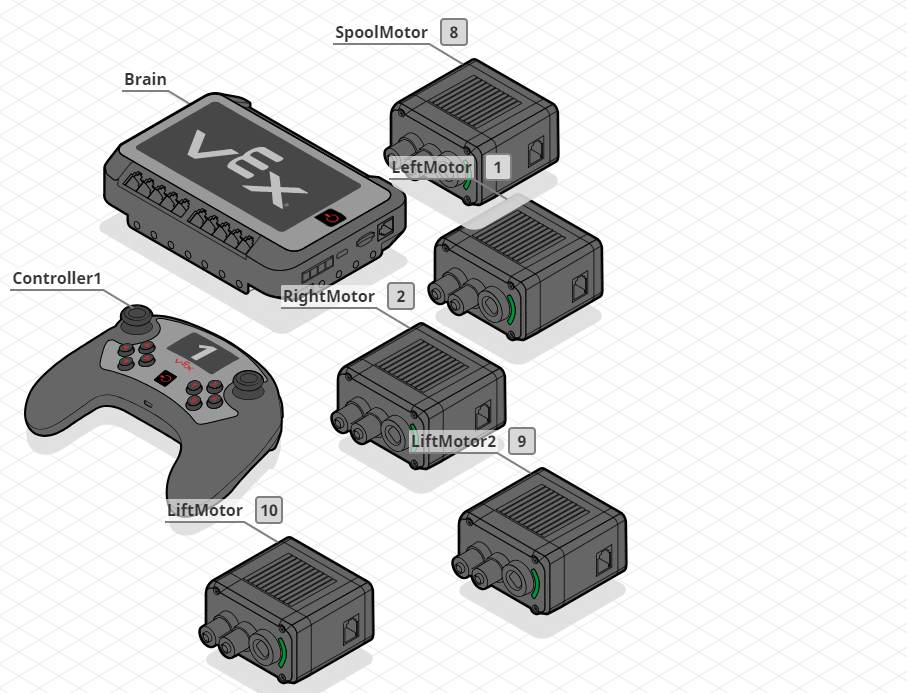
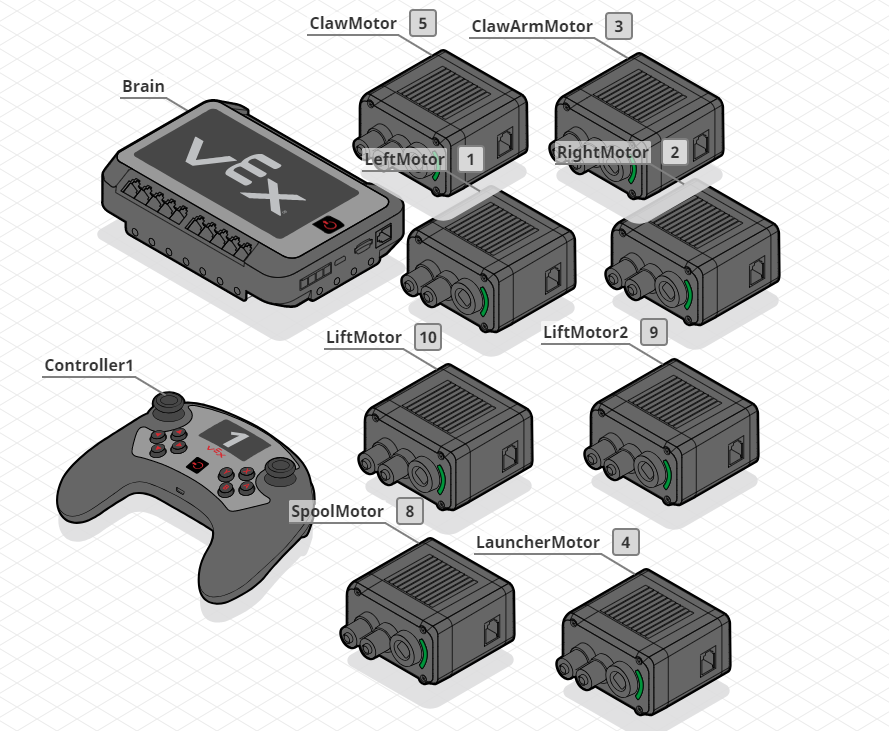
Added Vex code with autonomous instructions and more comments

diff --git a/iLeadVex2019/iLeadVex2019/vexCompTank.cpp b/iLeadVex2019/iLeadVex2019/vexCompTank.cpp
@@ -12,23 +12,7 @@ vex::competition    Competition;
 //  AUTONOMOUS CODE //
 ////////////////////*/
 
-void moveForward(int speed, float seconds) {
-	seconds = seconds * 1000; //multiplies value by 1000 to convert to milliseconds
-	LeftMotor.spin(directionType::fwd, speed, velocityUnits::pct);
-	RightMotor.spin(directionType::fwd, speed, velocityUnits::pct);
-	task::sleep(seconds);
-	LeftMotor.stop();
-	RightMotor.stop();
-}
-void moveBackwards(int speed, float seconds) {
-	seconds = seconds * 1000; //multiplies value by 1000 to convert to milliseconds
-	LeftMotor.spin(directionType::rev, speed, velocityUnits::pct);
-	RightMotor.spin(directionType::rev, speed, velocityUnits::pct);
-	task::sleep(seconds);
-	LeftMotor.stop();
-	RightMotor.stop();
-}
-void pivotRight(int speed, float seconds) {
+void moveForward(int speed, float seconds) { //moves the robot forward in set speed for set seconds
 	seconds = seconds * 1000; //multiplies value by 1000 to convert to milliseconds
 	LeftMotor.spin(directionType::fwd, speed, velocityUnits::pct);
 	RightMotor.spin(directionType::rev, speed, velocityUnits::pct);
@@ -36,7 +20,7 @@ void pivotRight(int speed, float seconds) {
 	LeftMotor.stop();
 	RightMotor.stop();
 }
-void pivotLeft(int speed, float seconds) {
+void moveBackwards(int speed, float seconds) { //moves the robot backwards in set speed for set seconds
 	seconds = seconds * 1000; //multiplies value by 1000 to convert to milliseconds
 	LeftMotor.spin(directionType::rev, speed, velocityUnits::pct);
 	RightMotor.spin(directionType::fwd, speed, velocityUnits::pct);
@@ -44,15 +28,45 @@ void pivotLeft(int speed, float seconds) {
 	LeftMotor.stop();
 	RightMotor.stop();
 }
-void firstLift(int speed, float seconds) {
+void pivotRight(int speed, float seconds) { //pivots the robot right for set speed and set seconds
+	seconds = seconds * 1000; //multiplies value by 1000 to convert to milliseconds
+	LeftMotor.spin(directionType::fwd, speed, velocityUnits::pct);
+	RightMotor.spin(directionType::fwd, speed, velocityUnits::pct);
+	task::sleep(seconds);
+	LeftMotor.stop();
+	RightMotor.stop();
+}
+void pivotLeft(int speed, float seconds) { //pivots the robot left for set speed and set seconds
+	seconds = seconds * 1000; //multiplies value by 1000 to convert to milliseconds
+	LeftMotor.spin(directionType::rev, speed, velocityUnits::pct);
+	RightMotor.spin(directionType::rev, speed, velocityUnits::pct);
+	task::sleep(seconds);
+	LeftMotor.stop();
+	RightMotor.stop();
+}
+void firstLift(int speed, float seconds) { //spins the lift motor for set speed and set seconds
 	seconds = seconds * 1000; //multiplies value by 1000 to convert to milliseconds
 	LiftMotor.spin(directionType::fwd, speed, velocityUnits::pct);
 	task::sleep(seconds);
 }
-void secondLift(int speed, float seconds) {
+void secondLift(int speed, float seconds) { //spins the second lift motor by set speed and set seconds
 	seconds = seconds * 1000; //multiplies value by 1000 to convert to milliseconds
 	LiftMotor2.spin(directionType::rev, speed, velocityUnits::pct);
 	task::sleep(seconds);
+}
+void spoolRelease(int speed, float seconds) //retracts string from spool
+{
+	seconds = seconds * 1000;
+	SpoolMotor.spin(directionType::fwd, speed, velocityUnits::pct);
+	task::sleep(seconds);
+	SpoolMotor.stop();
+}
+void spoolRetract(int speed, float seconds) //releases string from spool
+{
+	seconds = seconds * 1000;
+	SpoolMotor.spin(directionType::rev, speed, velocityUnits::pct);
+	task::sleep(seconds);
+	SpoolMotor.stop();
 }
 
 /*////////////////////
@@ -101,11 +115,51 @@ void spoolControls() { //Controls for the spool motor
 		SpoolMotor.stop();
 	}
 }
+void clawControls() { //Controls for the claw and claw arm
+					  //Claw Arm control
+	if (Controller1.ButtonX.pressing() == true)
+	{
+		ClawArmMotor.spin(directionType::rev, 90, velocityUnits::pct);
+	}
+	else if (Controller1.ButtonB.pressing() == true)
+	{
+		ClawArmMotor.spin(directionType::fwd, 90, velocityUnits::pct);
+	}
+	else
+	{
+		ClawArmMotor.stop();
+	}
+	//Claw Controls
+	if (Controller1.ButtonLeft.pressing() == true)
+	{
+		ClawMotor.spin(directionType::fwd, 40, velocityUnits::pct);
+	}
+	else if (Controller1.ButtonRight.pressing() == true)
+	{
+		ClawMotor.spin(directionType::rev, 40, velocityUnits::pct);
+	}
+	else
+	{
+		ClawMotor.stop();
+	}
+}
+void launcherControls() { //Controls the launcher arm
+	if (Controller1.ButtonY.pressing() == true)
+	{
+		LauncherMotor.spin(directionType::rev, 100, velocityUnits::pct);
+	}
+	else
+	{
+		LauncherMotor.stop();
+	}
+}
 void robotControls() { //Tank, arcade and lift controls for the robot
 	liftControls(); //enables lift controls for the robot
 	spoolControls(); //enables controls for the spool motor
-	LeftMotor.spin(directionType::rev, (Controller1.Axis3.value()), velocityUnits::pct); //LeftMotor goes forward whenever the left joystick is pressed forward
-	RightMotor.spin(directionType::fwd, (Controller1.Axis2.value()), velocityUnits::pct); //RightMotor goes forward whenever the right joystick is pressed forward
+	clawControls(); //enables controls for the claw and claw arm motor
+	launcherControls(); //enables controls for the launcher motor
+	LeftMotor.spin(directionType::fwd, (Controller1.Axis3.value()), velocityUnits::pct); //LeftMotor goes forward whenever the left joystick is pressed forward
+	RightMotor.spin(directionType::rev, (Controller1.Axis2.value()), velocityUnits::pct); //RightMotor goes forward whenever the right joystick is pressed forward
 }
 /*---------------------------------------------------------------------------*/
 /*                          Pre-Autonomous Functions                         */
@@ -134,9 +188,27 @@ void pre_auton(void) {
 /*---------------------------------------------------------------------------*/
 
 void autonomous(void) {
-	// ..........................................................................
-	// Insert autonomous user code here.
-	// ..........................................................................
+
+	spoolRelease(60, 2.5); //Lowers the lift sstring
+	moveForward(100, 3); //moves forward for 3 seconds at full speed
+	firstLift(75, 1.5); //lifts the first lift up for 1.5 seconds
+	spoolRetract(40, 0.25); //releases lift string
+	moveBackwards(50, 1); //moves backwards at half speed for 1 second
+	LiftMotor.stop(); //stops the lift motor
+	moveBackwards(100, 0.5); //move backwards at full speed for 2.75 seconds
+	pivotRight(100, 0.25); //pivots the robot slightly to the right
+	spoolRelease(60, 1.25); //releases the spool string more to allow for lift
+	secondLift(75, 1.5); //the second stage of the lift goes up to lift the game object
+	moveForward(30, 0.3); //moves the robot forward towards the pole for the game object
+	LiftMotor2.spin(directionType::fwd, 75, velocityUnits::pct); //lowers the 2nd lift motor
+	task::sleep(1500); //waits 1.5 seconds
+	LiftMotor2.stop(); //stops the 2nd lift motor
+	LiftMotor.spin(directionType::rev, 75, velocityUnits::pct); //lowers the 1st lift motor
+	task::sleep(1500); //waits 1.5 seconds
+	LiftMotor.stop(); //stops the 1st lift motor
+	moveBackwards(30, 0.3); //moves the robot backwards
+	pivotLeft(100, 0.25); //pivots the robot left
+	moveBackwards(100, 2.5); //moves the robot backwards to park in starting space
 
 }
 

diff --git a/iLeadVexNonComp.cpp b/iLeadVexNonComp.cpp
@@ -14,24 +14,11 @@ void toggleControl() { //Function that toggles control between arcade and tank b
 		tankControl = false;
 	}
 }
-void moveForward(int speed, float seconds) {
-	seconds = seconds * 1000; //multiplies value by 1000 to convert to milliseconds
-	LeftMotor.spin(directionType::fwd, speed, velocityUnits::pct);
-	RightMotor.spin(directionType::fwd, speed, velocityUnits::pct);
-	task::sleep(seconds);
-	LeftMotor.stop();
-	RightMotor.stop();
-}
-void moveBackwards(int speed, float seconds) {
-	seconds = seconds * 1000; //multiplies value by 1000 to convert to milliseconds
-	LeftMotor.spin(directionType::rev, speed, velocityUnits::pct);
-	RightMotor.spin(directionType::rev, speed, velocityUnits::pct);
-	task::sleep(seconds);
-	LeftMotor.stop();
-	RightMotor.stop();
-}
-void pivotRight(int speed, float seconds)
-{
+/*////////////////////
+//  AUTONOMOUS CODE //
+////////////////////*/
+
+void moveForward(int speed, float seconds) { //moves the robot forward in set speed for set seconds
 	seconds = seconds * 1000; //multiplies value by 1000 to convert to milliseconds
 	LeftMotor.spin(directionType::fwd, speed, velocityUnits::pct);
 	RightMotor.spin(directionType::rev, speed, velocityUnits::pct);
@@ -39,8 +26,7 @@ void pivotRight(int speed, float seconds)
 	LeftMotor.stop();
 	RightMotor.stop();
 }
-void pivotLeft(int speed, float seconds)
-{
+void moveBackwards(int speed, float seconds) { //moves the robot backwards in set speed for set seconds
 	seconds = seconds * 1000; //multiplies value by 1000 to convert to milliseconds
 	LeftMotor.spin(directionType::rev, speed, velocityUnits::pct);
 	RightMotor.spin(directionType::fwd, speed, velocityUnits::pct);
@@ -48,21 +34,51 @@ void pivotLeft(int speed, float seconds)
 	LeftMotor.stop();
 	RightMotor.stop();
 }
-void firstLift(int speed, float seconds)
-{
+void pivotRight(int speed, float seconds) { //pivots the robot right for set speed and set seconds
+	seconds = seconds * 1000; //multiplies value by 1000 to convert to milliseconds
+	LeftMotor.spin(directionType::fwd, speed, velocityUnits::pct);
+	RightMotor.spin(directionType::fwd, speed, velocityUnits::pct);
+	task::sleep(seconds);
+	LeftMotor.stop();
+	RightMotor.stop();
+}
+void pivotLeft(int speed, float seconds) { //pivots the robot left for set speed and set seconds
+	seconds = seconds * 1000; //multiplies value by 1000 to convert to milliseconds
+	LeftMotor.spin(directionType::rev, speed, velocityUnits::pct);
+	RightMotor.spin(directionType::rev, speed, velocityUnits::pct);
+	task::sleep(seconds);
+	LeftMotor.stop();
+	RightMotor.stop();
+}
+void firstLift(int speed, float seconds) { //spins the lift motor for set speed and set seconds
 	seconds = seconds * 1000; //multiplies value by 1000 to convert to milliseconds
 	LiftMotor.spin(directionType::fwd, speed, velocityUnits::pct);
 	task::sleep(seconds);
 }
-void secondLift(int speed, float seconds)
-{
+void secondLift(int speed, float seconds) { //spins the second lift motor by set speed and set seconds
 	seconds = seconds * 1000; //multiplies value by 1000 to convert to milliseconds
 	LiftMotor2.spin(directionType::rev, speed, velocityUnits::pct);
 	task::sleep(seconds);
 }
-void autonomous() {
-
+void spoolRelease(int speed, float seconds) //retracts string from spool
+{
+	seconds = seconds * 1000;
+	SpoolMotor.spin(directionType::fwd, speed, velocityUnits::pct);
+	task::sleep(seconds);
+	SpoolMotor.stop();
 }
+void spoolRetract(int speed, float seconds) //releases string from spool
+{
+	seconds = seconds * 1000;
+	SpoolMotor.spin(directionType::rev, speed, velocityUnits::pct);
+	task::sleep(seconds);
+	SpoolMotor.stop();
+}
+
+/*////////////////////
+//  USER CONTROLS   //
+////////////////////*/
+
 void liftControls() //controls for the lift on the robot
 {
 	if (Controller1.ButtonR1.pressing() == true) //Lift Up
@@ -105,9 +121,50 @@ void spoolControls() { //Controls for the spool motor
 		SpoolMotor.stop();
 	}
 }
+void clawControls() { //Controls for the claw and claw arm
+					  //Claw Arm control
+	if (Controller1.ButtonX.pressing() == true)
+	{
+		ClawArmMotor.spin(directionType::rev, 90, velocityUnits::pct);
+	}
+	else if (Controller1.ButtonB.pressing() == true)
+	{
+		ClawArmMotor.spin(directionType::fwd, 90, velocityUnits::pct);
+	}
+	else
+	{
+		ClawArmMotor.stop();
+	}
+	//Claw Controls
+	if (Controller1.ButtonLeft.pressing() == true)
+	{
+		ClawMotor.spin(directionType::fwd, 40, velocityUnits::pct);
+	}
+	else if (Controller1.ButtonRight.pressing() == true)
+	{
+		ClawMotor.spin(directionType::rev, 40, velocityUnits::pct);
+	}
+	else
+	{
+		ClawMotor.stop();
+	}
+}
+void launcherControls() { //Controls the launcher arm
+	if (Controller1.ButtonY.pressing() == true)
+	{
+		LauncherMotor.spin(directionType::rev, 100, velocityUnits::pct);
+	}
+	else
+	{
+		LauncherMotor.stop();
+	}
+}
+
 void robotControls() { //Tank, arcade and lift controls for the robot
 	liftControls(); //enables lift controls for the robot
 	spoolControls(); //enables controls for the spool motor
+	clawControls(); //enables controls for the claw and claw arm motor
+	launcherControls(); //enables controls for the launcher motor
 	if (tankControl == false) { //Arcade Control (1 joystick)
 		LeftMotor.spin(directionType::fwd, (Controller1.Axis4.value() + Controller1.Axis3.value()), velocityUnits::pct); //Averages left joystick's x and y axis for smoother control
 		RightMotor.spin(directionType::fwd, (Controller1.Axis4.value() - Controller1.Axis3.value()), velocityUnits::pct); //averages left joystick's x and y axis for smoother control
@@ -119,8 +176,32 @@ void robotControls() { //Tank, arcade and lift controls for the robot
 	}
 }
 
+void autonomous() {
+	spoolRelease(60, 2.5); //Lowers the lift sstring
+	moveForward(100, 3); //moves forward for 3 seconds at full speed
+	firstLift(75, 1.5); //lifts the first lift up for 1.5 seconds
+	spoolRetract(40, 0.25); //releases lift string
+	moveBackwards(50, 1); //moves backwards at half speed for 1 second
+	LiftMotor.stop(); //stops the lift motor
+	moveBackwards(100, 0.5); //move backwards at full speed for 2.75 seconds
+	pivotRight(100, 0.25); //pivots the robot slightly to the right
+	spoolRelease(60, 1.25); //releases the spool string more to allow for lift
+	secondLift(75, 1.5); //the second stage of the lift goes up to lift the game object
+	moveForward(30, 0.3); //moves the robot forward towards the pole for the game object
+	LiftMotor2.spin(directionType::fwd, 75, velocityUnits::pct); //lowers the 2nd lift motor
+	task::sleep(1500); //waits 1.5 seconds
+	LiftMotor2.stop(); //stops the 2nd lift motor
+	LiftMotor.spin(directionType::rev, 75, velocityUnits::pct); //lowers the 1st lift motor
+	task::sleep(1500); //waits 1.5 seconds
+	LiftMotor.stop(); //stops the 1st lift motor
+	moveBackwards(30, 0.3); //moves the robot backwards
+	pivotLeft(100, 0.25); //pivots the robot left
+	moveBackwards(100, 2.5); //moves the robot backwards to park in starting space
+}
+
 int main() { //main function
 	tankControl = false; //Tank Control default state
+	autonomous();
 	while (true) { //infinite loop
 		Controller1.ButtonX.pressed(toggleControl); //runs the toggle control function whenever button x is pressed on the controller
 		robotControls(); //function for the controls on the robot
